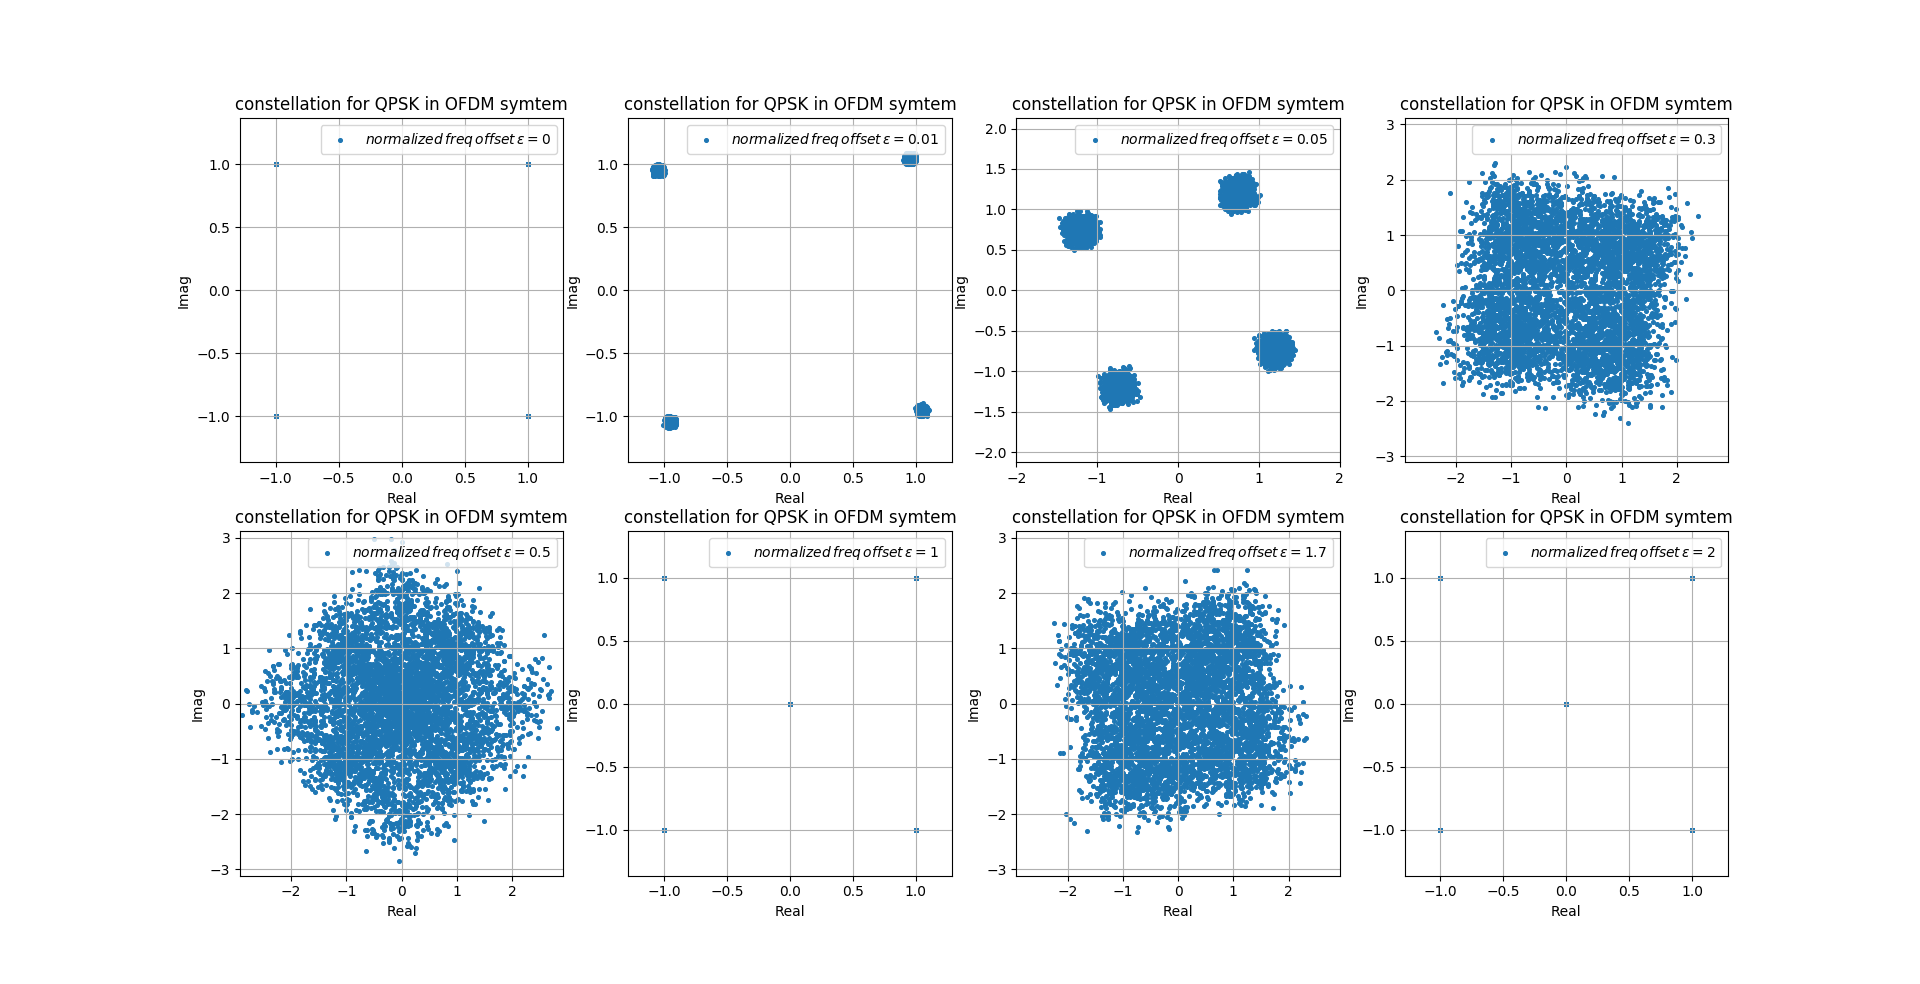
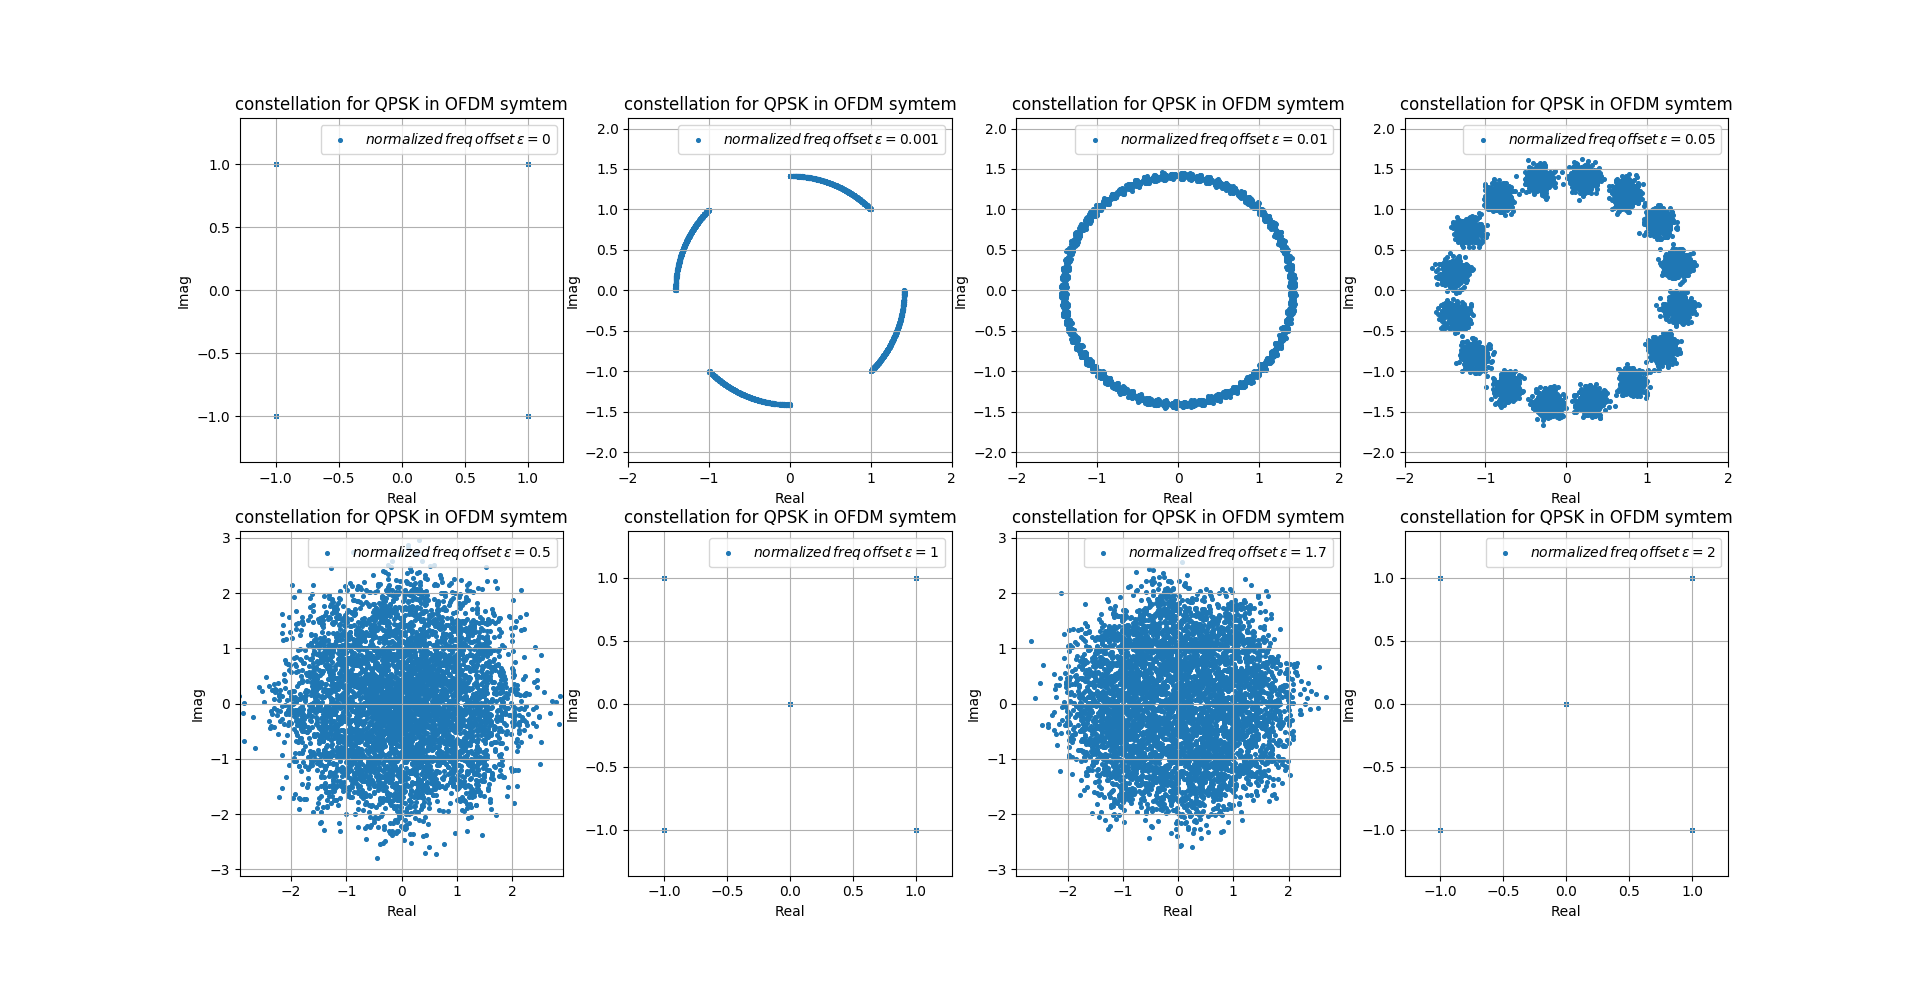
修正OFDM 星座圖的模擬(effected by CFO) OFDM已修正: 	經過CFO影響的星座點模擬

diff --git a/OFDM/synchronization/constellation effected by CFO.py b/OFDM/synchronization/constellation effected by CFO.py
@@ -12,7 +12,7 @@ L = 1                                           # 假設有L條multipath
 h = [0]*L                                       # 存放multipath通道的 impulase response
 H = [0]*N                                       # 為一個list其中有N個元素(因為總共會傳送N個ofdm symbol)，其中每一個元素會對應到一個序列類型的物件，這是代表傳送某個ofdm symbolo時的channel frequency response
 max_delay_spread = L-1                          # 最大的 time delay spread為L-1個取樣點的時間，所以會有L條路徑，分別為delay 0,  delay 1,  delay 2 .......delay L-1 時間單位
-normalized_freq_offset = [0, 0.01, 0.05, 0.3, 0.5, 1, 1.7, 2] # normalized後的frequency offset
+normalized_freq_offset = [0, 0.001, 0.01, 0.05, 0.5, 1, 1.7, 2] # normalized後的frequency offset
 freq_offset = [0]*len(normalized_freq_offset)   # 實際的frequency offset
 for i in range(len(freq_offset)):
     freq_offset[i] = normalized_freq_offset[i] / T_symbol
@@ -54,12 +54,7 @@ for k in range(len(normalized_freq_offset)):
             n += 1
         x = x_new  # 現在x已經有加上cyclic prefix
 
-        # 接下來考慮CFO(carrier frequency offset)造成的影響，相當於乘上np.exp(1j * 2*np.pi *normalized_ frequency_offset [k]* m / Nfft)
-        # 注意，一定要加完cp後才能開始考慮CFO造成的影響
-        for m in range(len(x)):
-            x[m] *= np.exp(1j * 2 * np.pi * normalized_freq_offset[k] * m / Nfft)
-            # 亦可寫成
-            #x[m] *= np.exp(1j * 2 * np.pi * freq_offset[k] * m * t_sample)
+
 
         # 接下來要考慮multipath通道效應
         for m in range(L):
@@ -68,6 +63,13 @@ for k in range(len(normalized_freq_offset)):
             for n in range(Nfft+n_guard):
                 s[(i * (Nfft + n_guard)) + n + m] += x[n]*h[m]
         H[i] = list(np.fft.fft(h,Nfft))  # 將impulse response h 做FFT，並將結果存到 H[i] 中
+
+    # 接下來考慮CFO(carrier frequency offset)造成的影響，相當於乘上np.exp(1j * 2*np.pi *normalized_ frequency_offset [k]* m / Nfft)
+    # 注意，一定要建立好完整的OFDM symbol序列後才能開始考慮CFO造成的影響
+    for m in range(len(s)):
+        s[m] *= np.exp(1j * 2 * np.pi * normalized_freq_offset[k] * m / Nfft)
+        # 亦可寫成
+        #s[m] *= np.exp(1j * 2 * np.pi * freq_offset[k] * m * t_sample)
 
 
     for i in range(N): #總共收到N個ofdm symbol
